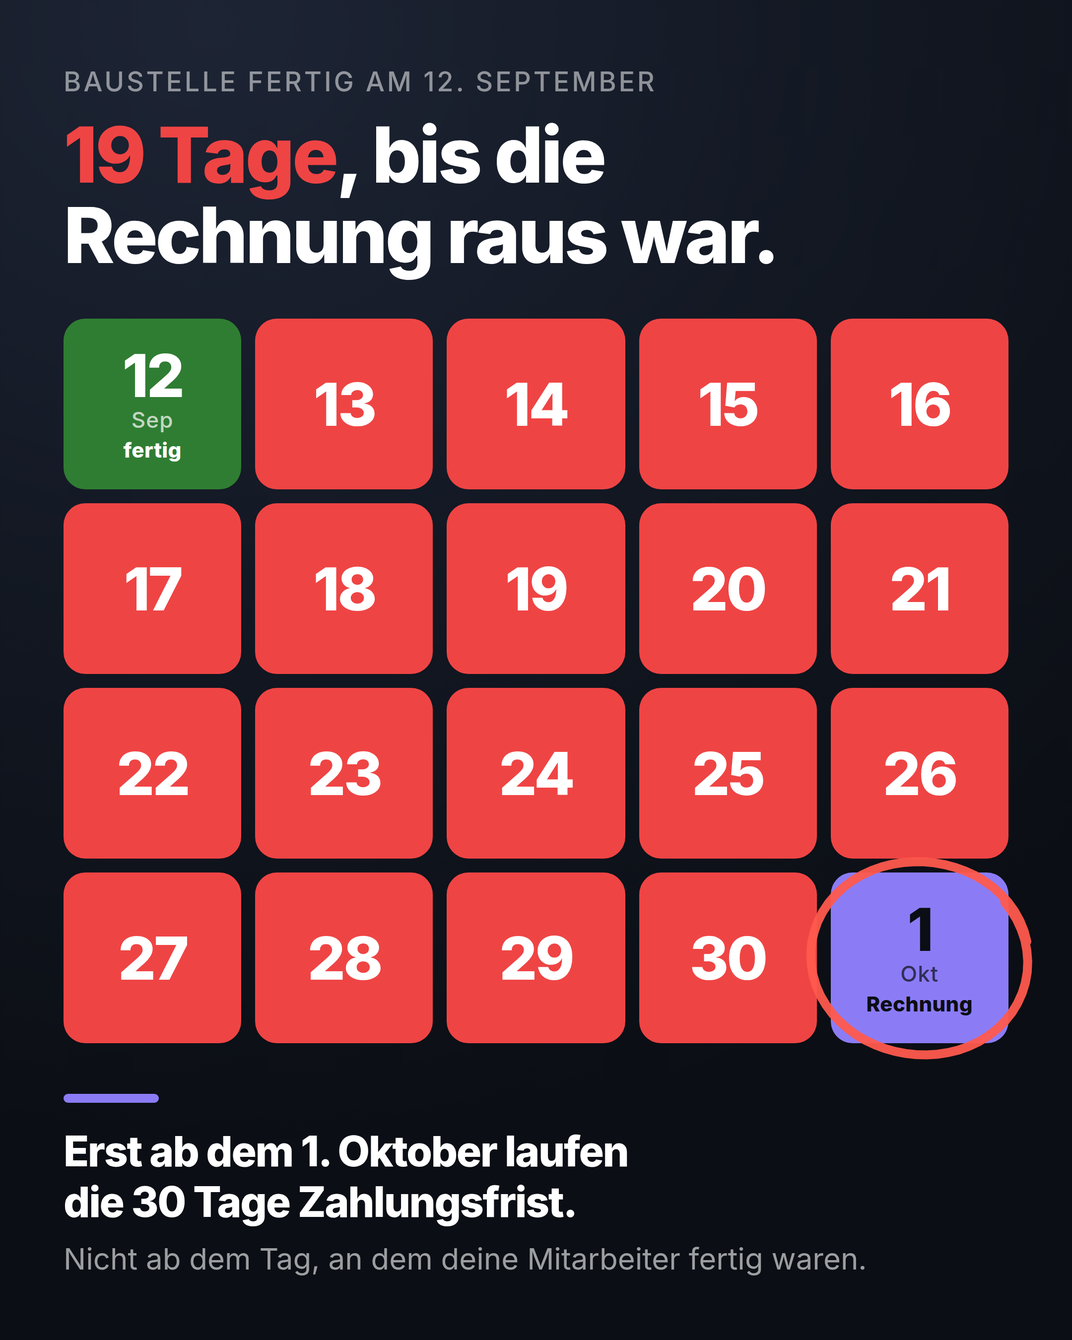
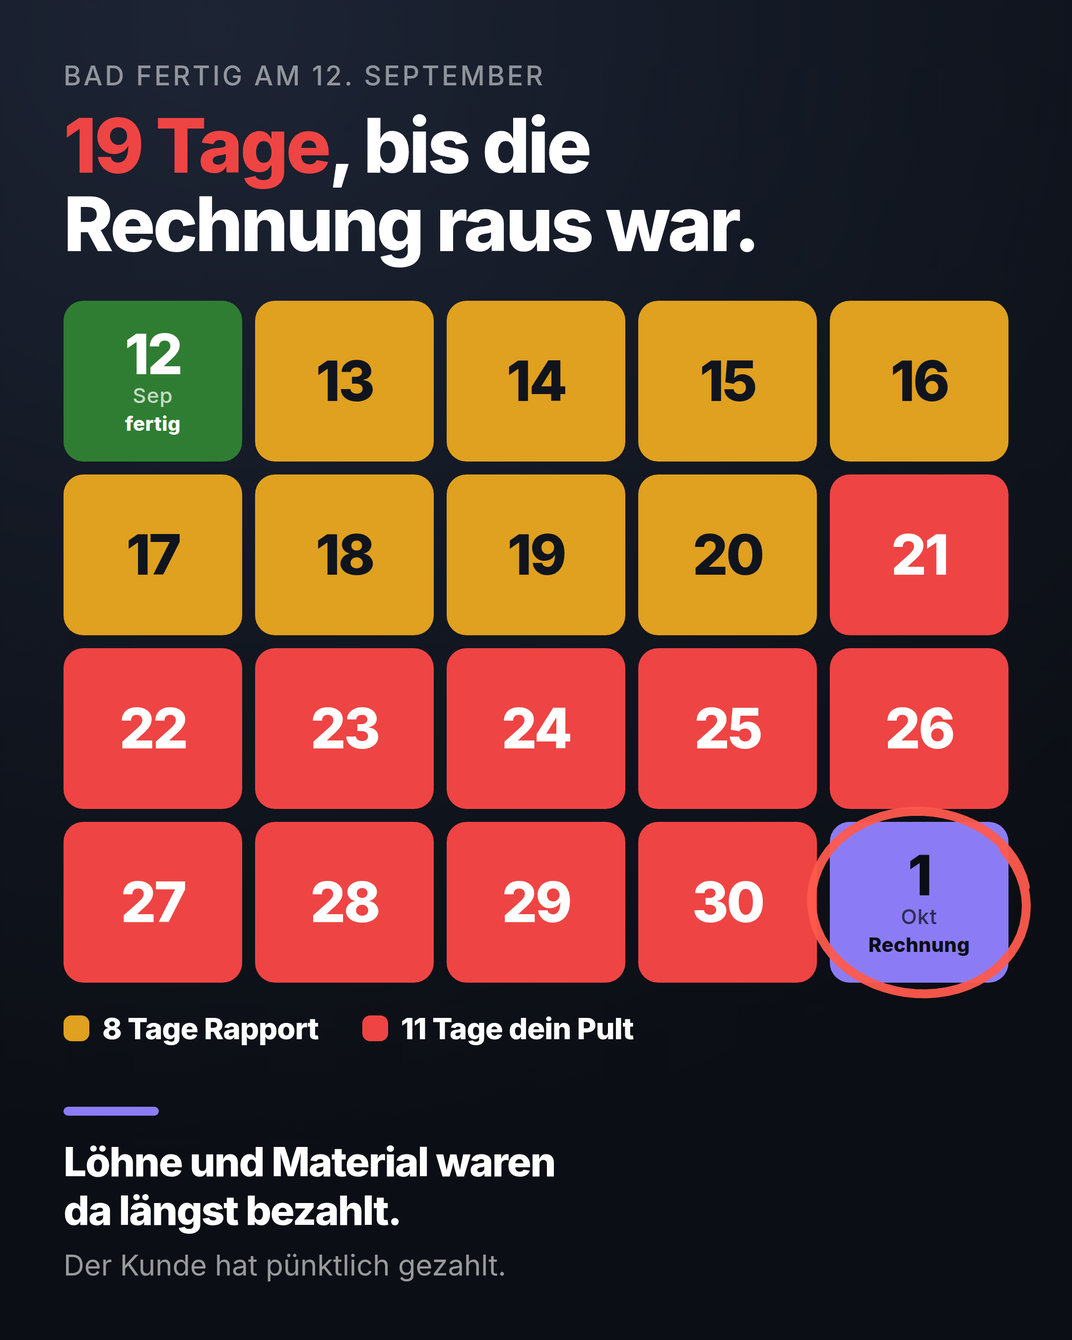
Post 24.09. nach Expertenrunde neu gebaut, Kalenderbild mit zwei Ursachen
Drei Gutachten (Reichweite, Zielgruppe, Lektorat) waren sich in zwei Punkten
einig: der Hook sortiert kleine Betriebe nicht aus, und das letzte Drittel
klingt nach Maschine. Der Zielgruppen-Test hat zusaetzlich die Grundannahme
zerlegt, bei 15 Mitarbeitern schreibt nicht der Chef die Rechnung.

- Post laeuft jetzt ueber die Freigabe auf dem Pult statt ueber das Tippen
- Buerokraft in Zeile eins als Groessenfilter in den ersten 140 Zeichen
- 19 Tage in ihre Teilstrecken zerlegt, 8 Tage Rapport und 11 Tage Pult
- Monate benannt, Zahlenkette 19 plus 30 gleich 49 im Text aufgeloest
- Leistungskatalog als Viererliste gestrichen, jetzt ein Satz
- Konjunktiv I und der doppelte Gegensatzspruch raus
- Verlust neu als Liquiditaet statt als Zins
- Kalenderbild in drei Farben, Pointe aus dem Fussbereich entfernt
- Lernprotokoll um Regeln 25 bis 31 ergaenzt, Themenspeicher um die
  Sachfehler und zwei neue Themen

Claude-Session: https://claude.ai/code/session_011uqJThEvfyZaZ27wjBcmdt

diff --git a/fotos/bild-kalender.html b/fotos/bild-kalender.html
@@ -6,44 +6,52 @@
 *{margin:0;padding:0;box-sizing:border-box;}
 .s{width:1080px;height:1350px;position:relative;overflow:hidden;
  background:radial-gradient(120% 85% at 20% 2%,#1d2434 0%,#111620 58%,#0b0e14 100%);
- font-family:'Inter',Helvetica,Arial,sans-serif;color:#fff;padding:66px 64px 0;}
+ font-family:'Inter',Helvetica,Arial,sans-serif;color:#fff;padding:60px 64px 0;}
 .kick{font-size:27px;font-weight:500;letter-spacing:2.4px;text-transform:uppercase;opacity:.52;}
-h1{font-size:78px;font-weight:800;letter-spacing:-2.6px;line-height:1.04;margin-top:16px;}
+h1{font-size:76px;font-weight:800;letter-spacing:-2.6px;line-height:1.04;margin-top:14px;}
 h1 em{font-style:normal;color:#ef4444;}
-.grid{display:grid;grid-template-columns:repeat(5,1fr);gap:14px;margin-top:44px;}
-.c{height:172px;border-radius:22px;display:flex;flex-direction:column;align-items:center;
- justify-content:center;gap:2px;background:#1b2130;position:relative;}
-.n{font-size:60px;font-weight:800;letter-spacing:-2px;line-height:1;}
-.mo{font-size:22px;font-weight:500;opacity:.7;letter-spacing:.6px;}
-.lab{font-size:21px;font-weight:800;letter-spacing:.2px;margin-top:3px;}
+.grid{display:grid;grid-template-columns:repeat(5,1fr);gap:13px;margin-top:38px;}
+.c{height:162px;border-radius:20px;display:flex;flex-direction:column;align-items:center;
+ justify-content:center;gap:1px;background:#1b2130;position:relative;}
+.n{font-size:56px;font-weight:800;letter-spacing:-2px;line-height:1;}
+.mo{font-size:21px;font-weight:500;opacity:.72;letter-spacing:.6px;}
+.lab{font-size:20px;font-weight:800;letter-spacing:.2px;margin-top:3px;}
 .c.rot{background:#ef4444;} .c.rot .n{color:#fff;}
+.c.amb{background:#e0a020;} .c.amb .n{color:#10141C;}
 .c.ok{background:#2f7d32;} .c.ok .n,.c.ok .lab,.c.ok .mo{color:#fff;}
 .c.start{background:#8B7CF6;} .c.start .n,.c.start .lab,.c.start .mo{color:#0b0e14;}
-.foot{position:absolute;left:64px;right:64px;bottom:64px;}
-.bar{width:96px;height:9px;background:#8B7CF6;border-radius:5px;margin-bottom:24px;}
-.f1{font-size:42px;font-weight:800;letter-spacing:-1.2px;line-height:1.2;}
-.f2{font-size:30px;font-weight:400;opacity:.6;margin-top:14px;}
+.leg{display:flex;gap:44px;margin-top:28px;}
+.lg{display:flex;align-items:center;gap:13px;font-size:30px;font-weight:800;letter-spacing:-.5px;}
+.dot{width:26px;height:26px;border-radius:8px;flex:none;}
+.foot{position:absolute;left:64px;right:64px;bottom:58px;}
+.bar{width:96px;height:9px;background:#8B7CF6;border-radius:5px;margin-bottom:22px;}
+.f1{font-size:41px;font-weight:800;letter-spacing:-1.2px;line-height:1.2;}
+.f2{font-size:29px;font-weight:400;opacity:.58;margin-top:13px;}
 svg.mk{position:absolute;left:0;top:0;width:1080px;height:1350px;pointer-events:none;}
 </style></head><body>
 <div class="s">
-  <div class="kick">Baustelle fertig am 12. September</div>
+  <div class="kick">Bad fertig am 12. September</div>
   <h1><em>19 Tage</em>, bis die<br>Rechnung raus war.</h1>
-  <div class="grid"><div class="c ok" id="c0"><span class="n">12</span><span class="mo">Sep</span><span class="lab">fertig</span></div><div class="c rot" id="c1"><span class="n">13</span></div><div class="c rot" id="c2"><span class="n">14</span></div><div class="c rot" id="c3"><span class="n">15</span></div><div class="c rot" id="c4"><span class="n">16</span></div><div class="c rot" id="c5"><span class="n">17</span></div><div class="c rot" id="c6"><span class="n">18</span></div><div class="c rot" id="c7"><span class="n">19</span></div><div class="c rot" id="c8"><span class="n">20</span></div><div class="c rot" id="c9"><span class="n">21</span></div><div class="c rot" id="c10"><span class="n">22</span></div><div class="c rot" id="c11"><span class="n">23</span></div><div class="c rot" id="c12"><span class="n">24</span></div><div class="c rot" id="c13"><span class="n">25</span></div><div class="c rot" id="c14"><span class="n">26</span></div><div class="c rot" id="c15"><span class="n">27</span></div><div class="c rot" id="c16"><span class="n">28</span></div><div class="c rot" id="c17"><span class="n">29</span></div><div class="c rot" id="c18"><span class="n">30</span></div><div class="c start" id="c19"><span class="n">1</span><span class="mo">Okt</span><span class="lab">Rechnung</span></div></div>
+  <div class="grid"><div class="c ok" id="c0"><span class="n">12</span><span class="mo">Sep</span><span class="lab">fertig</span></div><div class="c amb"><span class="n">13</span></div><div class="c amb"><span class="n">14</span></div><div class="c amb"><span class="n">15</span></div><div class="c amb"><span class="n">16</span></div><div class="c amb"><span class="n">17</span></div><div class="c amb"><span class="n">18</span></div><div class="c amb"><span class="n">19</span></div><div class="c amb"><span class="n">20</span></div><div class="c rot"><span class="n">21</span></div><div class="c rot"><span class="n">22</span></div><div class="c rot"><span class="n">23</span></div><div class="c rot"><span class="n">24</span></div><div class="c rot"><span class="n">25</span></div><div class="c rot"><span class="n">26</span></div><div class="c rot"><span class="n">27</span></div><div class="c rot"><span class="n">28</span></div><div class="c rot"><span class="n">29</span></div><div class="c rot"><span class="n">30</span></div><div class="c start" id="cL"><span class="n">1</span><span class="mo">Okt</span><span class="lab">Rechnung</span></div></div>
+  <div class="leg">
+    <div class="lg"><span class="dot" style="background:#e0a020"></span>8 Tage Rapport</div>
+    <div class="lg"><span class="dot" style="background:#ef4444"></span>11 Tage dein Pult</div>
+  </div>
   <div class="foot">
     <div class="bar"></div>
-    <div class="f1">Erst ab dem 1. Oktober laufen<br>die 30 Tage Zahlungsfrist.</div>
-    <div class="f2">Nicht ab dem Tag, an dem deine Mitarbeiter fertig waren.</div>
+    <div class="f1">L&#246;hne und Material waren<br>da l&#228;ngst bezahlt.</div>
+    <div class="f2">Der Kunde hat p&#252;nktlich gezahlt.</div>
   </div>
   <svg class="mk" id="mk" viewBox="0 0 1080 1350"></svg>
 </div>
 <script>
 document.fonts.ready.then(()=>{
-  const r=document.getElementById('c19').getBoundingClientRect();
-  const cx=r.left+r.width/2, cy=r.top+r.height/2, rx=r.width/2+16, ry=r.height/2+15;
+  const r=document.getElementById('cL').getBoundingClientRect();
+  const cx=r.left+r.width/2, cy=r.top+r.height/2, rx=r.width/2+15, ry=r.height/2+14;
   const p=[];
   for(let i=0;i<=64;i++){
     const a=(i/64)*Math.PI*2*1.07-0.6;
-    const w=1+0.04*Math.sin(a*2.1+0.9);
+    const w=1+0.035*Math.sin(a*2.1+0.9);
     p.push((i?'L':'M')+(cx+Math.cos(a)*rx*w).toFixed(1)+' '+(cy+Math.sin(a)*ry*w).toFixed(1));
   }
   document.getElementById('mk').innerHTML=

diff --git a/fotos/render-kalender.js b/fotos/render-kalender.js
@@ -6,13 +6,13 @@ const {chromium}=require('playwright');
   await p.evaluate(()=>document.fonts.ready);
   await p.waitForTimeout(900);
   const o=await p.evaluate(()=>{
-    const g=document.querySelector('.grid').getBoundingClientRect();
+    const g=document.querySelector('.leg').getBoundingClientRect();
     const f=document.querySelector('.foot').getBoundingClientRect();
     return {kringel:!!window.__ok, zellen:document.querySelectorAll('.c').length,
-            rot:document.querySelectorAll('.c.rot').length,
+            rot:document.querySelectorAll('.c.rot').length, amb:document.querySelectorAll('.c.amb').length,
             luft:Math.round(f.top-g.bottom)};
   });
-  console.log('Kringel:',o.kringel,'| Zellen:',o.zellen,'davon rot:',o.rot,'| Luft Raster zu Fuss:',o.luft+'px');
+  console.log('Kringel:',o.kringel,'| Zellen:',o.zellen,'| rot:',o.rot,'| amber:',o.amb,'| Luft Raster zu Fuss:',o.luft+'px');
   await (await p.$('.s')).screenshot({path:__dirname+'/bild-kalender.png'});
   await b.close(); console.log('ok');
 })();

diff --git a/posts/2026-09-24-neunzehn-tage.md b/posts/2026-09-24-neunzehn-tage.md
@@ -1,95 +1,51 @@
-# Post: Neunzehn Tage
+# 24.09.2026 — Die Rechnung liegt auf deinem Pult
 
-Datum: 2026-09-24 (Donnerstag), 07:30
-Format: Standardformel vom 700er, streng als Geschichte. Ein Ereignis, benannte Tage, ein messbarer Verlust.
-Bild: fotos/bild-kalender.png (20 Tageskacheln, 18 davon rot). Alternativen: fotos/bild-49tage.png (grosse Zahl), fotos/bild-rechnung.png (Chatverlauf).
-Content-Säule: Unbequeme Wahrheit, durchgehend Du
+Thema: Der Weg von der fertigen Baustelle bis zur Rechnung. Nicht die Zahlungsfrist des Kunden, sondern die Tage davor, die der Betrieb selber verliert.
+
+Filter in Zeile eins: "Deine Buerokraft". Wer keine hat, liest weiter am Post vorbei. Das ist gewollt.
 
 ## Post
 
-Der Kunde hat pünktlich gezahlt. Trotzdem hast du 7 Wochen auf dein Geld gewartet.
+Deine Bürokraft hatte die Rechnung am 20. fertig. Rausgegangen ist sie am 1. Oktober. Die 11 Tage dazwischen lag sie auf deinem Pult.
 
-Am 12. schreibt Marco in die Gruppe, die Baustelle sei fertig und sauber übergeben. Du schreibst zurück, top, danke euch.
+Am 12. September schreibt Marco in die Gruppe: Bad fertig, Kunde zufrieden.
 
-Reto sagt, den Rapport mache er morgen. Aus morgen wird der 20.
+Reto sagt, er macht den Rapport morgen. Aus morgen wird der 20.
 
-Die Rechnung hast du geschrieben, als du Zeit hattest. Das war am 1.
+Das sind die ersten 8 Tage.
 
-Ab dem 1. laufen die 30 Tage. Nicht ab dem 12.
+Dann liegt die Rechnung bei dir zur Freigabe. Du bist auf der Baustelle. Beim Lieferanten. Beim nächsten Termin.
 
-19 Tage hast du selber dazugelegt. Und keiner hat etwas falsch gemacht.
+Ab dem 1. Oktober laufen die 30 Tage Zahlungsfrist. Nicht ab dem 12. September.
 
-Bei der Rechnung ruft ja auch keiner an und fragt, wo sie bleibt.
+Der Kunde zahlt pünktlich. 49 Tage nach dem letzten Handgriff.
 
-Auf der Baustelle zählt jede Stunde. Im Büro zählt keiner die Tage.
+Löhne und Material sind da längst bezahlt.
 
-Die Offerte tippst du selber. Ans Nachfassen denkt keiner. Die Anfrage liegt 3 Tage. Und die Rechnung wartet, bis du Zeit hast.
+Und keiner hat etwas falsch gemacht.
 
-Genau das automatisiere ich. Dann geht die Rechnung raus, sobald der Rapport drin ist.
+Kommst du einen Tag zu spät, ruft der Kunde am Morgen an. Nach deiner Rechnung fragt nie jemand.
 
-Wie viele Tage liegen bei dir zwischen dem letzten Arbeitstag und der Rechnung?
+Ich hänge die Rechnung an den Rapport. Kommt der rein, geht sie raus, und du gibst sie auf dem Handy frei. Dasselbe läuft bei der Offerte, beim Nachfassen und bei den Anfragen.
+
+Wie viele Tage liegen bei dir zwischen dem letzten Tag auf der Baustelle und der Rechnung?
 
 ## Alternative Hooks
 
-1. Deine Mitarbeiter waren am 12. fertig. Dein Geld kam 49 Tage später.
-2. Reto sagt, den Rapport mache er morgen. Aus morgen wird der 20. Und aus dem 20. wird der 1.
+- Die Rechnung war am 20. fertig. Raus ging sie am 1. Oktober.
+- Deine Bürokraft wartet seit 8 Tagen auf einen Rapport, den Reto im Auto liegen hat.
+- Der Kunde hat pünktlich gezahlt. Trotzdem waren es 49 Tage bis zum Geld.
 
-## Warum diese Fassung nach dem 250er
+## Rechnung
 
-Der 22.09. lag bei 250, der 17.09. bei 700. Beide nach derselben Formel. Der Unterschied war, dass der 700er eine Geschichte war und der 250er ein Argument.
-
-Dieser Post ist streng eine Geschichte:
-- EIN Ereignis: eine Baustelle, eine Rechnung, eine Zahlung.
-- BENANNTE Tage: der zwölfte, der zwanzigste, der dritte.
-- EIN messbarer Verlust: neunzehn Tage Liquidität, bei jeder Baustelle.
-
-Die Rechnung ist nachrechenbar. Fertig am 12. September, Rechnung am 1. Oktober, das sind exakt neunzehn Tage. Dazu die dreissig Tage Zahlungsfrist ab Rechnungsdatum, Zahlung also am 31. Oktober, das sind neunundvierzig Tage nach Abschluss statt dreissig. Nachgerechnet und korrekt. Florian kann das im Kommentarfeld in zwei Zeilen erklären.
-
-Fassung eins rechnete, statt zu erzählen. Sie war korrekt und kalt. Florian am 24.09.: menschlicher und hookiger.
-
-Der Hook ist jetzt ein Widerspruch, den der Leser aufgelöst haben will. Der Kunde zahlt pünktlich, und trotzdem wartest du 7 Wochen. Wie soll das gehen. Ausserdem nimmt der erste Satz sofort den Schuldigen weg, den jeder erwartet.
-
-Menschlich wird der Körper durch echte Sätze statt Daten. Marco schreibt in die Gruppe, die Baustelle sei fertig und sauber übergeben. Du schreibst zurück, top, danke euch. Reto sagt, den Rapport mache er morgen.
-
-"Aus morgen wird der 20." ist der Satz, den jeder Inhaber kennt. Er erklärt die halbe Verzögerung und klagt trotzdem niemanden an.
-
-"Und keiner hat etwas falsch gemacht" ersetzt die frühere Entlastungszeile. Sie sagt dasselbe, aber als Feststellung statt als Beruhigung.
-
-Merksatz und Positionierung in einem: "Auf der Baustelle zählt jede Stunde. Im Büro zählt keiner die Tage."
-
-Die Produktzeile endet neu auf die Rechnung statt auf den Bürokram, damit sie zum Thema des Posts passt. Und der Automatisierungssatz ist konkret: die Rechnung geht raus, sobald der Rapport drin ist. Das ist ein Ding, das läuft, kein Gespräch.
-
-Schlussfrage ist zählbar und kostet kein Gesicht. Wer schnell ist, antwortet mit Stolz. Wer langsam ist, rechnet still mit.
-
-## Thema
-
-Rechnungslauf und Liquidität. Steht im Produktkern (manuelle Büroabläufe), war nie im Feed und kollidiert nicht mit den verbrannten Themen Offerten und Nachfassen. Die beiden kommen nur noch in der Produktzeile am Schluss vor, dort gehören sie hin.
+- 12.09. Baustelle fertig
+- 20.09. Rapport da, 8 Tage
+- 01.10. Rechnung raus, 11 Tage Pult
+- 12.09. bis 01.10. = 19 Tage
+- plus 30 Tage Zahlungsfrist = 49 Tage
+- September hat 30 Tage, darum stimmen die 19 auf den Tag
 
 ## Bild
 
-fotos/bild-kalender.png. Kalender, aber als Scrollstopper gebaut.
-
-Erste Kalenderfassung zeigte zwei komplette Monatsraster auf hellem Grund. Korrekt, aber im Feed liest man das als Tabelle und scrollt weiter. Sechzig kleine Kacheln konkurrieren miteinander, keine dominiert.
-
-Diese Fassung zeigt nur die Strecke, um die es geht: den 12. September bis zum 1. Oktober. Zwanzig Kacheln statt sechzig, dafür jede 172 Pixel hoch.
-
-- 12. September grün, "fertig"
-- 13. bis 30. September rot, achtzehn Kacheln am Stück
-- 1. Oktober violett, "Rechnung", rot von Hand eingekringelt
-
-Die achtzehn roten Kacheln füllen zwei Drittel des Bildes. Das sieht man als Vorschaubild auf dem Handy, ohne ein Wort zu lesen. Grün, dann eine Wand aus Rot, dann violett. Die Geschichte in zwei Sekunden.
-
-Dunkler Grund, weil der Feed hell ist.
-
-Die Überschrift nennt die Zahl, der Fussblock die Erklärung. Damit funktioniert das Bild auch allein, wenn jemand den Text nicht aufklappt.
-
-Alternativen im Repo: bild-49tage.png (eine grosse Zahl, noch härter, aber ohne Kalenderlogik) und bild-rechnung.png (Chatverlauf).
-
-Rendern: node fotos/render-kalender.js
-
-## Ergebnis
-
-Impressions:
-Reaktionen:
-Kommentare:
-Erkenntnis:
+fotos/bild-kalender.png — 20 Tage als Kacheln, 8 in Orange fuer den Rapport, 11 in Rot fuer das Pult, letzte Kachel violett mit rotem Ring.
+Alternativen: fotos/bild-49tage.png (Scrollstopper mit grosser 49), fotos/bild-rechnung.png (Chatverlauf).

diff --git a/wissen/lernprotokoll.md b/wissen/lernprotokoll.md
@@ -197,10 +197,29 @@ Zweiter Punkt: Der 200er hatte ein Foto, der 250er nicht. Schwacher Beleg, deckt
     Mengen und Daten werden als ZIFFERN geschrieben, nicht ausgeschrieben. Also "49 Tage" und nicht "neunundvierzig Tage", "am 12." und nicht "am zwoelften", "30 Tage" und nicht "dreissig Tage". Ziffern springen beim Scrollen ins Auge, ausgeschriebene Zahlen verschwinden im Fliesstext. Bei einem Post, der von einer Rechnung lebt, ist das der Unterschied zwischen gesehen und ueberlesen.
     Fuer die Belegschaft heisst es MITARBEITER, nie "Leute". Gilt auch in Wendungen wie "deine Leute" und "vier Mann". Ausnahme: woertliche Rede im Bild darf umgangssprachlich bleiben.
 
+25. WER SCHREIBT DIE RECHNUNG (Expertenrunde 24.09.2026): Der Zielgruppen-Test hat den Post vom 24.09. in seiner ersten Fassung zerlegt, und zwar an einem einzigen Satz: "Die Rechnung hast du geschrieben, als du Zeit hattest." Bei 10 bis 20 Mitarbeitern schreibt der Inhaber keine Rechnung. Die Buerokraft erfasst, die Software rechnet, der Chef gibt frei. Dasselbe gilt fuer die Offerte, die kommt aus dem Kalkulationsprogramm und nicht aus seinen Fingern.
+    Daraus folgt der Umbau jeder Buero-Story: Der Stau liegt nie beim Tippen, sondern bei der FREIGABE. Die Rechnung ist fertig und liegt auf seinem Pult. Das ist der Satz, der trifft, weil er ihn nicht wegdelegieren kann. Wer den Inhaber tippen laesst, schreibt ueber einen 3-Mann-Betrieb und verliert die 10 Prozent, die er eigentlich meint.
+
+26. JEDE ZAHL BRAUCHT IHRE RECHNUNG IM POST (Lektorat 24.09.2026): Der Hook versprach 7 Wochen, der Text loeste sie nirgends auf. 19 plus 30 sind 49 Tage, also genau 7 Wochen, aber das stand nicht da. Der Leser geht mit einer offenen Rechnung aus dem Post, und genau das laesst den Schluss flach wirken.
+    Regel: Wenn eine Zahl im Hook steht, steht ihre Herleitung im Text. Und eine Gesamtzahl wird in ihre Teilstrecken zerlegt, sonst faellt sie vom Himmel. Aus "19 Tage hast du selber dazugelegt" wurde "8 Tage der Rapport, 11 Tage dein Pult". Zusatz: Monate immer benennen, wenn ein Monatswechsel drin ist. Nach dem 20. kommt "am 1.", und im schnellen Lesen liegt der 1. davor.
+
+27. KEIN LEISTUNGSKATALOG ALS LISTE (Lektorat 24.09.2026): Regel 22 verlangt, dass ich am Schluss auf Offerte, Nachfassen, Anfragen und Bueroablaeufe zurueckkomme. Als Viererliste mit gleich langen Saetzen wird daraus das Metronom-Format, das im Protokoll bei 176 gelandet ist. Regel 22 wird ab jetzt in EINEM Satz erfuellt, nicht in vier. Beispiel: "Dasselbe laeuft bei der Offerte, beim Nachfassen und bei den Anfragen."
+
+28. KONJUNKTIV I IST ZEITUNGSDEUTSCH (Lektorat 24.09.2026): "die Baustelle sei fertig uebergeben" und "den Rapport mache er morgen" sind der deutlichste Schriftdeutsch-Marker. Zwei Mal hintereinander wird der Post zum Protokoll. Immer direkte Rede oder Doppelpunkt: "Marco schreibt in die Gruppe: Bad fertig, Kunde zufrieden." Dazu: eine Zeit durchhalten, szenisches Praesens. Drei Zeiten in sechs Saetzen machen die Chronologie unscharf.
+
+29. DER GROESSENFILTER GEHOERT IN DIE ERSTEN 140 ZEICHEN (Expertenrunde 24.09.2026): Zwei von drei Experten haben unabhaengig denselben Mangel gefunden, der Hook sortiert die kleinen Betriebe nicht aus. LinkedIn zeigt rund zwei Zeilen vor "mehr anzeigen", also muss der Filter dort stehen und nicht im dritten Absatz.
+    Filterworte, die ein 3-Mann-Betrieb nicht kennt: Buerokraft, Vorarbeiter, zweite Kolonne, Lernender, Disposition. Ein Wort reicht. Regel 20 bleibt gueltig, der Filter ist eine Schwelle und keine Anrede.
+
+30. NUR EIN POLIERTER SATZ PRO POST (Lektorat 24.09.2026): Perfekt gespiegelte Gegensaetze wie "Auf der Baustelle zaehlt jede Stunde. Im Buero zaehlt keiner die Tage." sind Kalendersprueche. Einer pro Post ist erlaubt und wirkt. Zwei stehen sich gegenseitig im Weg, drei sind eine Maschine. Wenn zwei dastehen, bricht man die Symmetrie des schwaecheren oder streicht ihn.
+    Dazu die Rhythmus-Messung als Pflichtschritt: Satzlaengen in Woertern aufschreiben. Sieben Saetze zwischen 4 und 6 Woertern hintereinander sind Stakkato, und genau dort schlaeft der Leser ein. Im letzten Drittel braucht es mindestens einen Satz von 13 bis 15 Woertern.
+
+31. DER VERLUST IST LIQUIDITAET, NICHT ZINS (Expertenrunde 24.09.2026): Verlockend war, den Schaden in Franken zu rechnen. 19 Tage auf 80'000 Franken zu 5 Prozent sind rund 200 Franken, und die frisst das Zahlungsziel beim Lieferanten fast wieder auf. Eine Zahl, die bei naeherem Hinsehen klein wird, schadet mehr als keine Zahl.
+    Der echte Schmerz bei 15 Mitarbeitern ist nicht der Zins, sondern dass Loehne und Material laengst bezahlt sind, waehrend das Geld noch unterwegs ist. Merksatz: bei Buero-Posts nie den Zinsverlust rechnen, sondern zeigen, was schon rausgegangen ist.
+
 ## Offene Tests
 
 **Kalender als zweite Bildart (24.09.).** Zweite Lektion aus derselben Runde: eine Infografik muss genauso ein Scrollstopper sein wie ein Foto. Die erste Kalenderfassung zeigte zwei komplette Monate auf hellem Grund, also sechzig kleine Kacheln, von denen keine dominiert. Im Feed liest man das als Tabelle. Die zweite Fassung zeigt nur die Strecke, um die es geht (20 Kacheln statt 60, jede 172 Pixel hoch, achtzehn davon rot am Stueck, dunkler Grund). Merksatz: EIN Element muss das Bild beherrschen, und es muss ohne Text funktionieren.
- Florian: nicht immer ein Chatverlauf. Vier Chat-Bilder hintereinander nutzen sich ab. Der Post vom 24.09. laeuft darum mit zwei Monatsrastern, in denen die 19 verlorenen Tage flaechig rot eingefaerbt sind. Unterschied zur gefloppten Zahlengrafik (100): dort stand ein Betrag auf einem Foto, hier ist es ein Kalender, den jeder Inhaber sofort liest, und die Zahl wird zu einer Flaeche statt zu einer Ziffer. Ueber 350 heisst: Kalender ist als zweite Bildart bestaetigt und die Chats bekommen eine Pause.
+ Florian: nicht immer ein Chatverlauf. Vier Chat-Bilder hintereinander nutzen sich ab. Die Endfassung vom 24.09. zeigt 20 Kacheln in drei Farben: eine gruene fuer den fertigen Tag, 8 gelbe fuer den fehlenden Rapport, 11 rote fuer das eigene Pult, die letzte violett mit rotem Kringel. Damit zeigt das Bild nicht mehr nur einen Zustand, sondern die zwei Ursachen, und es nimmt dem Text die Pointe nicht weg. Unterschied zur gefloppten Zahlengrafik (100): dort stand ein Betrag auf einem Foto, hier ist es ein Kalender, den jeder Inhaber sofort liest, und die Zahl wird zu einer Flaeche statt zu einer Ziffer. Ueber 350 heisst: Kalender ist als zweite Bildart bestaetigt und die Chats bekommen eine Pause.
 
 - Posting-Zeit 07:30 gegen 08:30, beide Dienstag oder Donnerstag.
 - Laenge Richtung 1300 Zeichen statt 1100, ob die Verweildauer das traegt.

diff --git a/wissen/themenspeicher.md b/wissen/themenspeicher.md
@@ -55,3 +55,19 @@ Bewertung der 97 (14.09.): methodisch sauber erhoben, inhaltlich aber schwach, w
 - Gratis-Mehrwert (vorsichtig, Listen floppen)
 - Persoenlich (bisher schwach, nur mit Betriebsbezug)
 - Resultat und Beweis (noch gesperrt, braucht echte Zahlen aus den Pilotprojekten)
+
+## Aus der Expertenrunde vom 24.09. (Zielgruppen-Test, Sanitaer mit 15 Mitarbeitern)
+
+Was bei dieser Groesse NICHT als Schmerz funktioniert:
+- 7 Wochen bis zum Geld sind nicht schlimm. Wer fuer einen Generalunternehmer arbeitet, wartet 3 bis 4 Monate auf die Schlussrechnung, dazu kommt der Rueckbehalt. Die Zahl muss also aus dem Direktgeschaeft mit Privatkunden kommen, sonst zuckt er nur mit den Schultern.
+- Eine einzige Rechnung am Schluss gibt es bei Neubau und grossem Umbau nicht. Dort laeuft es ueber Akontorechnungen nach Ausmass, meist monatlich, mit rund 10 Prozent Rueckbehalt. Das Geld kommt waehrend der Arbeit. Rapport als Ausloeser der Rechnung stimmt nur im Service und beim Privatumbau.
+- Zinsverlust als Schaden rechnen. Siehe Regel 31, die Zahl wird klein und der Post verliert.
+
+Was bei dieser Groesse SEHR WOHL trifft (noch nicht gespielt):
+- DER REGIERAPPORT OHNE VISUM. Ohne Unterschrift der Bauleitung ist ein Regierapport wertlos, und bei der Schlussrechnung streicht die Bauleitung die Positionen. Hook-Ansatz: "Drei Regierapporte ohne Visum, und die Bauleitung streicht dir die Positionen aus der Schlussrechnung." Wichtig und ehrlich: eine Automation holt keine Unterschrift. Sie kann nur erinnern, bis sie da ist. Genau so muss es im Post stehen.
+- DIE SCHLUSSRECHNUNG IN DER PRUEFUNG. "Deine Schlussrechnung liegt seit 6 Wochen beim GU in der Pruefung. Dein Material ist seit 8 Wochen bezahlt."
+- DIE FREIGABE AUF DEM PULT. Am 24.09. gespielt, das ist der Kern von Regel 25.
+
+Sachliches, das in keinem Post falsch stehen darf:
+- Eine WhatsApp vom Vorarbeiter ist keine Abnahme. Nach SIA 118 braucht es eine gemeinsame Begehung und ein Protokoll mit Maengelliste.
+- "Ab Rechnungsdatum laufen 30 Tage" gilt beim Direktkunden. Nach SIA 118 hat die Bauleitung zuerst rund einen Monat Pruefzeit, GU-Vertraege nennen oft 45 bis 60 Tage nach gepruefter Rechnung. Also nie als Gesetz verkaufen, wenn im Post ein GU vorkommt.
